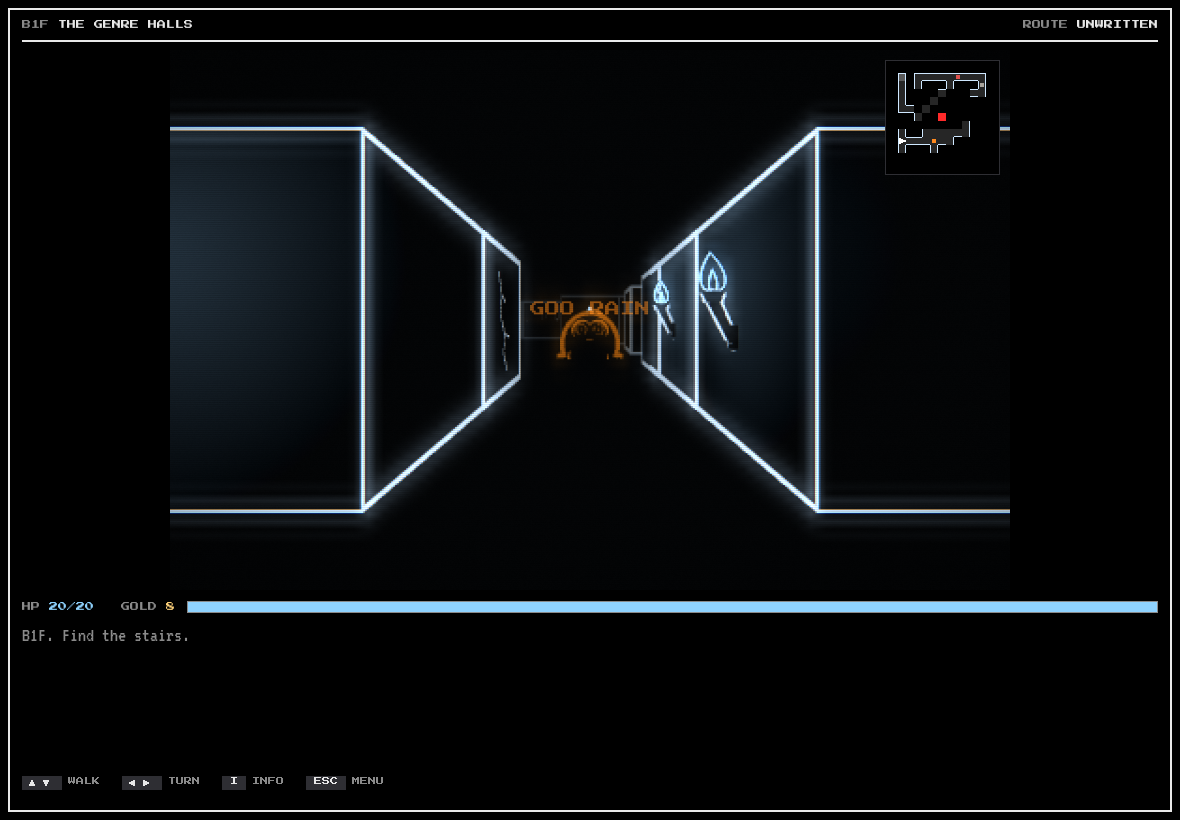
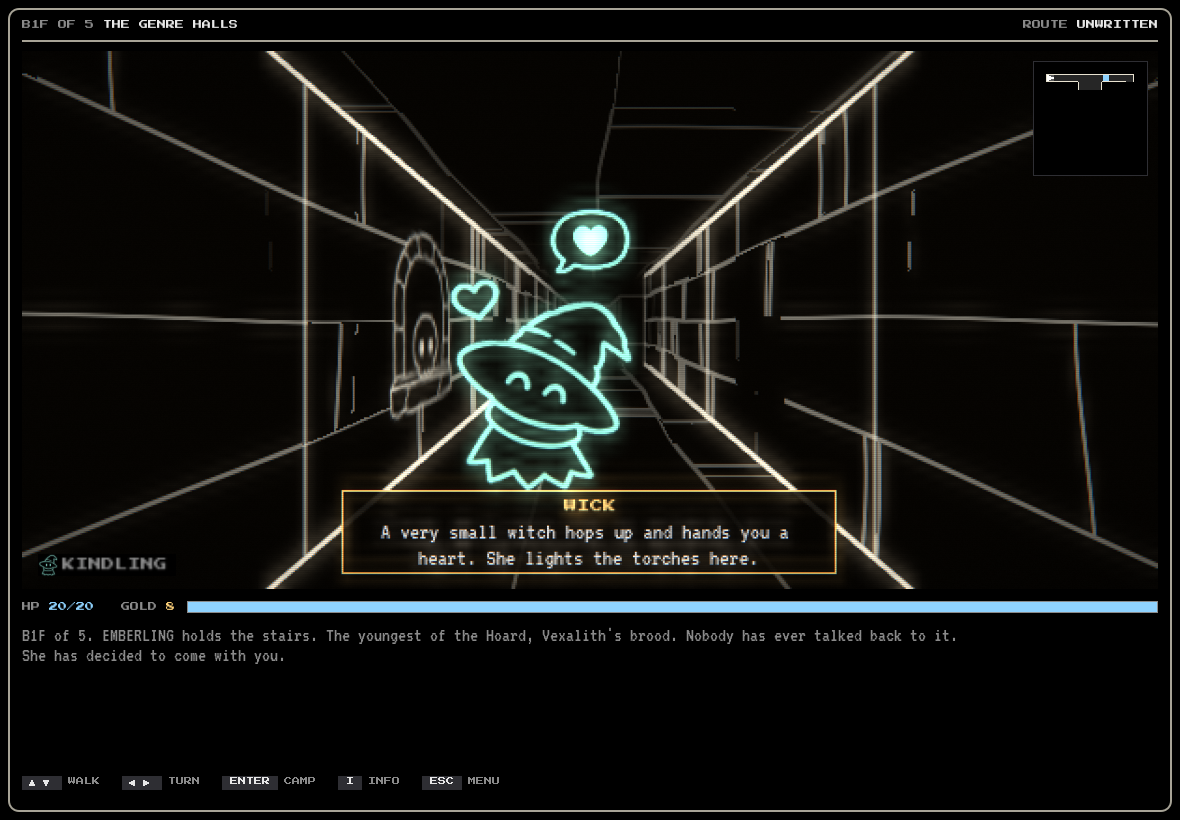
docs: the art direction as built, GIFs of it in motion, and a new cover
ART.md rewrites the plan as what was made and says where it differs. The menu's Wick now fills its window, so she shows.

diff --git a/docs/ART.md b/docs/ART.md
@@ -1,0 +1,100 @@
+# 美术方案
+
+![开场：一个很小的女巫从走廊深处蹦来，递给你一颗爱心](art/game/opening.gif)
+
+> 可爱不是换皮。它是玩家能保住、也能亲手弄坏的东西。
+
+这份文档写的是游戏里实际做成的样子，以及它和最初方案的差别。全部功能都有开关：`hand-drawn` 管画面，`warmth` 管世界对你的态度，`wick` 管第一个朋友；`classic` 全关，回到旧的线框。
+
+## 为什么这样做
+
+旧版的冷来自三个地方，新版一一对应地改：
+
+| 旧版 | 新版 |
+| --- | --- |
+| 怪物是圆环眼加直线嘴，像在瞪人 | 头和帽子占大半，身体很小，眼睛是两颗发光的小药丸，没有嘴 |
+| 怪物静止，只会滑动 | 蹦着走，落地压扁；注意到你时会抬头，开心和害怕都有整段动画 |
+| 只有格子边线，地板和天花板全黑 | 砖缝、石板、墙饰都是画出来的，火把又大又实心 |
+
+颜色只学了一半：墙面保持单色，怪物保留各自的颜色，冠军保留红色。
+
+![走廊：火把长了眼睛](art/game/walk.gif)
+
+## 表情
+
+表情从怪物的数值读出来（`rules/moods.gd`），所以会随着你的行为变化。
+
+| 状态 | 什么时候 | 动作 |
+| --- | --- | --- |
+| 平常 | 没有强烈情绪 | 呼吸，隔几秒眨一次眼 |
+| 开心 | 友好度过了它的门槛，或你刚做了它喜欢的事 | 眼睛笑弯，冒爱心 |
+| 生气 | 怒气高，或正在追你，或你刚冒犯它 | 眼睛变斜，冒感叹号 |
+| 害怕 | 恐惧高 | 小点眼，发抖 |
+| 空白 | 世界太冷（见下） | 脸一点点消失，只剩线条 |
+
+换心情时先倒放回平常，再正放新的，眼睛不会跳变。挨打和扑击直接切入，因为它们本来就该突然。
+
+![战斗：走廊调暗留在怪物身后，它会开心、生气、挨打、扑过来](art/game/fight.gif)
+
+## 核心钩子：温度
+
+世界有一个 0 到 1 的温度（`rules/warmth.gd`），开局 0.6。它不存盘，每次从这局已经记录的事推导，所以旧存档自动有温度，重试战斗时也会一起回退。数值在 `data/warmth.json`。
+
+![同一个位置，五个温度](art/game/warmth.png)
+
+| 等级 | 温度 | 火把 | 骷髅 | 裂墙 |
+| --- | --- | --- | --- | --- |
+| 被爱 | 0.74 起 | 眼睛笑弯，路过时朝你弯 | 点头 | 心虚地笑 |
+| 友善 | 0.46 起 | 看着你，朝你弯 | 点头 | 心虚地笑 |
+| 戒备 | 0.28 起 | 看向别处，躲开你 | 不再点头 | 心虚地笑 |
+| 闭眼 | 0.1 起 | 闭上眼睛 | 眼窝变空 | 只是裂缝 |
+| 寒冷 | 0.1 以下 | 退回旧的线框火焰 | 眼窝变空 | 只是裂缝 |
+
+饶恕和招募让世界变暖。杀戮和朋友离你而去让它变冷；屠宰朋友的代价比杀一只怪大得多，把朋友留在闸门也比杀一只怪更重。
+
+随着世界变冷，砖缝和石板慢慢褪去，画面也失去颜色。怪物的脸一只一只变空白，每只在自己固定的温度变，冠军最后。到最冷时，地牢变回旧的线框：**现有的美术正好是残忍路线的终点**。
+
+温度不改变任何数值，只改变这个地方怎么看你。
+
+## 第一个朋友
+
+开局的文字先说门：“It only opens for someone who is not alone.” 然后一个很小的女巫从走廊深处蹦过来，递给你一颗爱心。这个顺序是有意的：先告诉你孤身一人过不去，再让朋友出现。开场不挡操作，你一移动，她就已经和你同行了。
+
+她叫 Wick，这里的火把都是她点的。所以火把才会看你；所以她走了、你残忍了，火把才会闭眼。
+
+她是真正的队友，走现有的忠诚和离队规则：可以被你气走，可以留在闸门，也可以被屠宰。她不占队伍名额，也不加战斗力，所以平衡不受影响。最后那扇门仍然要靠“没有失去朋友”才能打开。
+
+## 和最初方案的差别
+
+| 方案 | 做成的样子 | 原因 |
+| --- | --- | --- |
+| 基调二选一 | 可爱但会被弄坏，黑暗系统全保留 | 屠宰和闸门只有在对象够可爱时才真正残忍 |
+| 小女巫当朋友或商人 | 当第一个朋友；商人另画一个角色 | 第一个朋友才能让最后那扇门的条件从开局就成立 |
+| 只改走路模型 | 走路和战斗用同一套图 | 同时解决了模型和战斗图不一致的问题 |
+| 走到最坏变回线框 | 分五级，一路褪过去 | 一下跳变读不出是自己造成的 |
+| 追杀靠“它们的脸不见了”才吓人 | 保留，再加：生气时自带动作，空白的脸不再回应你的话 | 恐惧来自你认识过这张脸 |
+| 用姿势表做动画 | 改成 6×4 连续帧表 | 姿势表不连续，用参考图加连续帧才顺 |
+
+新增而方案里没有的：战斗时走廊调暗留在怪物身后，所以战斗和世界是同一个地方；墙上有苔藓和蝙蝠；铁窗里挂小月亮。
+
+## 素材
+
+全部线稿由 Codex 生成（`codex exec`，用 ChatGPT 登录），再用脚本切成图集。流程见 [DEVELOPMENT.md](DEVELOPMENT.md#the-art)。
+
+| 角色 | 动作 |
+| --- | --- |
+| ![](art/witch.gif) | 女巫 Wick，全部 8 段动作 |
+| ![](art/bandit.gif) | 强盗 |
+| ![](art/slime.gif) | 史莱姆 |
+| ![](art/snake.gif) | 蛇 |
+| ![](art/rock.gif) | 石头 |
+| ![](art/dragon.gif) | 龙，也是冠军 |
+| ![](art/trader.gif) | 商人，只有 4 段动作 |
+
+图集的亮度通道是线条，透明通道是轮廓，所以身体内部是黑的，能挡住身后的东西，线条可以染成任何颜色。
+
+## 还能再做的
+
+- 商人和请求者没有生气、受伤的动作，因为他们不打架。
+- 冷色调只调了画面，音乐还没有跟着变冷。
+- 空白的脸在战斗里不再回应情绪，但台词照旧。

diff --git a/docs/ARCHITECTURE.md b/docs/ARCHITECTURE.md
@@ -10,14 +10,14 @@
 | --- | --- | --- |
 | `menu` | 主菜单、设置、存档页面（暂停菜单复用同一套页面） | → `gameplay`（经 `session` 交请求） |
 | `gameplay` | 一局游戏的场景：把 `game` `view` `audio` `mind` 接起来、读输入、暂停、自动存档 | `menu` → 它 → `game` |
-| `view` | 3 渲 2 画面：3D 布景（`stage` `dungeon_mesh` `monster_model` `decor`）、战斗层（`overlay`）、小地图（`automap`）、文字框（`hud`）、提示卡和盟友条（`tips`）、触屏（`pad`） | `assets` `flags` → `view` → `game`（玩家输入） |
+| `view` | 3 渲 2 画面：3D 布景（`stage` `dungeon_mesh`；手绘的 `figure` `figure_anim` `wall_art` `opening`，`classic` 用 `monster_model` `decor`）、战斗层（`overlay`，手绘的怪物在 `battle_art`）、小地图（`automap`）、文字框（`hud`）、提示卡和盟友条（`tips`）、触屏（`pad`） | `assets` `flags` → `view` → `game`（玩家输入） |
 | `audio` | 声音：合成音效（`sfx` `synth`）、音乐（`music`）、怪物录音和合成嗓音（`voices` `shout`）、总线（`mix`） | `assets` `flags` `game`（事件）→ `audio` |
 | `game` | 流程、状态机 | `menu` `view` `audio` `mind` → `game` → `mind` `rules` |
 | `mind` | 怪物怎么思考 | `game` `data` → `mind` → `rules` `game`（决定） |
 | `rules` | 规则，纯逻辑 | `game` `mind` `data` → `rules` |
 | `network manager` | 对外的唯一出口：统一超时、重试、连续失败后暂时离线，失败时调用方回退到本地规则 | `mind` → 它 → `proxy` |
 
-数据与资源：`data`（物种、台词、数值）、`assets`（音乐、字体、语音）、`flags`（启动参数）。
+数据与资源：`data`（物种、台词、数值）、`assets`（音乐、字体、语音、手绘图集）、`flags`（启动参数）。
 外部：`proxy`（持有密钥）→ Jev LLM。本地语音识别（`native/asr`）和按住说话暂未带回。
 
 `game` 里的阶段都在 `game/stages/`，一张转移表（`transitions.gd`）管住能从哪到哪，事件的字段在 `events.gd` 里校验。小游戏一个文件一个，在 `rules/minigames/`；地图生成器也是，在 `rules/maps/`。跨局留下的东西（成就、余烬、加成）存在 `menu/progress.gd`，由 `gameplay` 交给 `game`；`game` 只发事件（`trophy`、`run_closed`），不碰存储。
@@ -36,3 +36,9 @@
 src/  menu/  gameplay/  view/  audio/  game/  mind/  rules/  network/  utils/
 data/  assets/  proxy/  tools/  docs/
 ```
+
+## 手绘美术
+
+图集由 `tools/art/process.py` 从 Codex 出的表切成，`data/sprites.json` 记录每一帧的位置，`view/sprites.gd` 读它。怪物在走路和战斗里用同一套图：`figure_anim.gd` 决定此刻显示哪个动作的哪一帧，`figure.gd` 把它放进 3D，`battle_art.gd` 把它画进战斗层。
+
+世界“温度”（`rules/warmth.gd`）不存盘，从 tally、butchered、left_behind、meals 推导，所以旧存档自动有温度，重试战斗也会回退。`stage` 每帧读它，改墙缝强度，等级变化时重建墙饰；`rules/moods.gd` 决定每张脸显示什么。设计见 [ART.md](ART.md)。

diff --git a/docs/DEVELOPMENT.md b/docs/DEVELOPMENT.md
@@ -30,6 +30,7 @@ godot --headless --path . -s res://tools/<name>.gd -- nosave nosound
 | `audio_test` | Every sound name has a recipe, music, voices, mix (run it without `nosound`) |
 | `map_test` | The floor generators, biomes and chunks, and what sight costs on a big floor |
 | `meta_test` | Achievements, Legacy, hunger, camp, butchering, and a save without any of them |
+| `art_test` | The atlases, how a figure moves, warmth, moods, what hangs on the walls, Wick from her first hop to a saved game; with `classic`, that none of it is on |
 | `features_test` | Each feature with its flag on and off (it switches them itself) |
 
 `tools/run_tests.sh [on|classic|both]` runs them all, plays whole games in each mode, and with the features on plays five games without a strike.
@@ -59,6 +60,27 @@ Every game feature since 0.6.1 has a flag, on by default. `FEATURES` in `src/uti
 A new feature goes in `FEATURES`, is read with `flow.feature(name)`, and if the view has to know, in `flow.VIEW_FEATURES` (the view reads `state.viewing(name)`). A save keeps working with any of them off.
 
 `motifs` is the one exception to shipping: Abdulla's motifs aren't in the repo. See [AUDIO.md](AUDIO.md).
+
+## The art
+
+The drawings come from Codex's image generation (`codex exec` on a ChatGPT login, no API key), and everything in the game is cut from them by a script. [ART.md](ART.md) says what they are for.
+
+```bash
+tools/art/generate.sh decor                         # one sheet from tools/art/prompts/, into tools/art/raw/ (gitignored, numbered, never overwritten)
+tools/art/animate.sh witch set1 tools/art/source/witch.png  # a figure's 6x4 sheet of continuous frames, drawn from a reference
+tools/art/keep.sh decor 2                           # promote that take to tools/art/source/ as 8-bit grey
+uv run --script tools/art/process.py [name]         # cut sheets into assets/art/ and data/sprites.json, and write GIFs to docs/art/
+godot --headless --path . --import                  # a new PNG needs importing; set mipmaps/generate=true in its .import
+```
+
+`process.py` prints how much each frame moves from the one before it and marks a jump: read that before looking at the GIF. A figure's silhouette (the alpha of its atlas) is worked out by flood fill, so a drawing with an open outline shows through; the script warns.
+
+`tools/art_shots.gd` records the look in motion on a fixed clock, however slow the machine (it needs a window, so it goes to n8):
+
+```bash
+godot --path . --fixed-fps 20 -s res://tools/art_shots.gd -- out=/some/dir seed=7 [only=menu,opening,walk,fight,warmth]
+tools/art/reels.sh /some/dir docs/art/game 20       # its clips as GIFs
+```
 
 ## The Worker (Jev)
 

diff --git a/docs/GAME.md b/docs/GAME.md
@@ -26,6 +26,8 @@ Floors hide things: chests behind cracked walls (walk into a crack to break it),
 
 **The stairs** offer two ways down to compare, chosen from the seed: a steep stair (tougher monsters, more gold), a quiet one (fewer monsters, a longer rest), a market stair (a trader below) or a warren (every monster below is one kind). On the third stairs a gate drops unless someone holds its chain and stays: hold it yourself for 10 HP, or leave a friend behind, which the others see. The last stairs open only for someone with a friend; alone you can turn back, or take the lonely ending.
 
+**The halls answer what you do.** Spare monsters and the corridor warms: torches grow eyes, turn to you and lean in as you pass, skulls nod, and a cracked wall that gives is a guilty smile. Kill and they look away, then shut their eyes; faces go blank one monster at a time, champions last, and at the bottom the set is cold wire. Eating or abandoning a friend costs more than a kill. Nothing here changes a number: it is how the place feels about you. See [ART.md](ART.md).
+
 ## Fights
 
 - **FIGHT** is a timing bar: strike when the line crosses the middle. A hit sours the monster's mood.
@@ -72,6 +74,8 @@ Every monster has a species' tastes, its own traits and a motive, and meters for
 Monsters think through one interface (`src/mind/`): local rules, a seeded random mind (`mock`), or Jev through the proxy, falling back to the local rules whenever it can't answer.
 
 ## Allies
+
+**Wick** finds you first. A run opens with a very small witch hopping down the corridor to hand you a heart; she lights the torches down here, and she walks with you from then on. She takes nobody's place in the party, adds no strength, and leaves the way any friend does: you can drive her off, leave her at the gate or put her in the bag.
 
 Up to three spared monsters travel with you, and each gives a passive charm. Each also adds to your strikes, and two or more take the edge off every hit.
 

diff --git a/README.md b/README.md
@@ -1,12 +1,12 @@
 # Donjon
 
-![Donjon: a wireframe corridor with a slime waiting down it](docs/donjon-cover.png)
+![Donjon: a very small witch offers you a heart in a hand-drawn corridor](docs/donjon-cover.png)
 
-A wireframe dungeon crawler with Undertale-style fights. The dungeon is a real 3D set drawn as glowing line art, and you can talk to the monsters: each one has a personality, feels something about what you do, and may spare you, join you or turn on you.
+A hand-drawn dungeon crawler with Undertale-style fights. The dungeon is a real 3D set drawn in glowing line art, and you can talk to the monsters: each one has a personality, feels something about what you do, and may spare you, join you or turn on you. The cute is something you can keep and something you can break: the halls warm to you if you are kind, and go back to cold wire if you are not.
 
 Donjon is a Godot 4.7 project (GDScript) for the browser, Windows, macOS and Linux. Changes are in [CHANGELOG.md](CHANGELOG.md).
 
-**Docs:** [The game](docs/GAME.md) · [Development](docs/DEVELOPMENT.md) · [Music and voices](docs/AUDIO.md) · [Architecture](docs/ARCHITECTURE.md) · [Personality playtest](docs/PERSONALITY_PLAYTEST.md). Agents working here: start with [AGENTS.md](AGENTS.md).
+**Docs:** [The game](docs/GAME.md) · [The art](docs/ART.md) · [Development](docs/DEVELOPMENT.md) · [Music and voices](docs/AUDIO.md) · [Architecture](docs/ARCHITECTURE.md) · [Personality playtest](docs/PERSONALITY_PLAYTEST.md). Agents working here: start with [AGENTS.md](AGENTS.md).
 
 ## Run it
 

diff --git a/CHANGELOG.md b/CHANGELOG.md
@@ -4,6 +4,14 @@ All notable changes to this project are documented here. The format follows [Kee
 
 ## [Unreleased]
 
+### Added
+- `hand-drawn`: the whole game is redrawn from sheets made with Codex: brick and flagstone walls, chibi monsters with continuous animation that hop and react, the same drawings walking and fighting, drawn wall decor, chests and sacks, and key art on the menu.
+- `warmth`: the halls answer what you do: torches look at you, look away, then shut their eyes, faces go blank one monster at a time, and at the coldest the set is the old wire.
+- `wick`: a run opens with a very small witch hopping down the corridor to hand you a heart; she is your first friend, and can be lost like any other.
+- Fights now show the halls dimmed behind the monster.
+- `tools/art/`: the pipeline that generates sheets with Codex and cuts them into atlases and GIFs; `tools/art_shots.gd` records the look in motion on a fixed clock.
+- `tools/art_test.gd`: atlases, figure animation, warmth, moods, wall art and Wick.
+
 ## [0.7.0] - 2026-11-07
 
 ### Added

diff --git a/AGENTS.md b/AGENTS.md
@@ -23,6 +23,7 @@ See [docs/ARCHITECTURE.md](docs/ARCHITECTURE.md). No `class_name`: modules are u
 - Tests can't judge how it looks or sounds. Take screenshots with `tools/screenshots.gd` and read them; `tools/flicker_check.gd`, `tools/far_check.gd` and `tools/hold_check.gd` measure the real picture and the real scene.
 - Every game feature has a flag in `FEATURES` in `src/utils/flags.gd`, on by default. `classic` must stay the game without them, and an old save must still load.
 - A `-s` tool script can't `preload` anything that uses the `Store` autoload (`src/menu/progress.gd`): `load()` it at run time.
+- The art is cut by `tools/art/process.py`: change a source sheet or `tools/art/sheets.json` and run it, rather than editing `assets/art/*.png` or `data/sprites.json` by hand. See [docs/ART.md](docs/ART.md).
 - A SubViewport in a tool needs `await process_frame` and then `RenderingServer.force_draw()`: transforms only flush in the main loop, and a hidden window never fires `frame_post_draw`.
 
 ## Conventions
